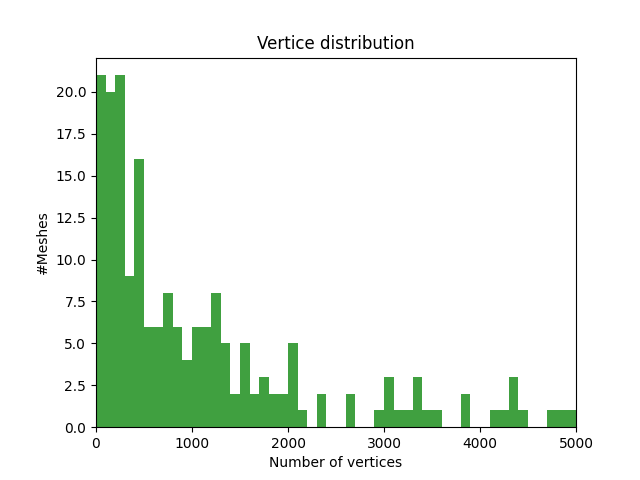
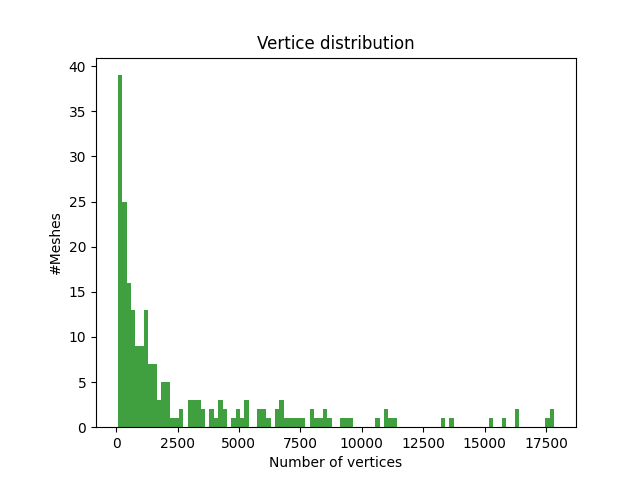
Added option to reject 10% of the outliers

Changed region(s): [[0.0625, 0.125, 0.9375, 0.9375]]

diff --git a/analyze.py b/analyze.py
@@ -51,6 +51,8 @@ def barycentre_distance(mesh):
 def bounding_box_volume(mesh):
   x = mesh.bounds
   volume = (x[1][0] - x[0][0]) * (x[1][1] - x[0][1]) * (x[1][2] - x[0][2])
+  if volume > 100:
+    print(x)
   return volume
 
 def filter_database(dbPath, excelPath):
@@ -72,7 +74,7 @@ def fill_mesh_info(mesh, classFolder, path):
   face_sizes = list(map(lambda x: len(x), mesh.faces))
   mesh_info = {"class": int(classFolder), "nrfaces": len(mesh.faces), "nrvertices": len(mesh.vertices),
                "containsTriangles": 3 in face_sizes, "containsQuads": 4 in face_sizes,
-               "bounding_box_corners": bounding_box(mesh.vertices), "path": f'{path}',  "center_mass": mesh.center_mass,
+               "bounding_box_corners": bounding_box(mesh.vertices), "path": f'{path}', "barycentre_distance": barycentre_distance(mesh),
                 'volume': bounding_box_volume(mesh)}
   mesh_info = detect_outliers(mesh, mesh_info)
   return mesh_info
@@ -101,12 +103,20 @@ def meta_data(dataframe):
   metadata["minvertices"] = np.min(dataframe.loc[:, "nrvertices"].values)
   metadata["maxvertices"] = np.max(dataframe.loc[:, "nrvertices"].values)
 
+  metadata["avgbarycentre_distance"] = np.mean(dataframe.loc[:, "barycentre_distance"].values)
+  metadata["volume"] = np.mean(dataframe.loc[:, "volume"].values)
+
   return metadata
 
 def save_histogram(data, info, path):
   # the histogram of the data
-
-  plt.hist(data,  bins=np.arange(0, info["xlim"] + info["blocksize"], info["blocksize"]), facecolor='g', alpha=0.75)
+  if info['skip_outliers']:
+    #Remove all data below the 5th percentile and 95th percentile
+    p5 = np.percentile(data, 5)
+    p95 = np.percentile(data, 95)
+    data = data[data >= p5]
+    data = data[data <= p95]
+  plt.hist(data,  bins = info["blocksize"], facecolor='g', alpha=0.75)
   plt.xlabel(info["xlabel"])
   plt.ylabel(info["ylabel"])
   plt.title(info["title"])
@@ -122,10 +132,11 @@ def save_histogram(data, info, path):
 def save_all_histograms(df, path):
   meta_data(df)
   plotInfos = [
-    {"column": "class", "title": "Class distribution", "blocksize": 19, "xlim":19, "ylabel": "#Meshes", "xlabel": "Class nr"},
-    {"column": "nrfaces", "title": "Face distribution", "blocksize": 100, "xlim":5000,  "ylabel": "#Meshes", "xlabel": "Number of faces"},
-    {"column": "nrvertices", "title": "Vertice distribution", "blocksize": 100,"xlim":5000,  "ylabel": "#Meshes", "xlabel": "Number of vertices"},
-    {"column": "volume", "title": "Bounding box volume", "blocksize": 100,"xlim":0,  "ylabel": "#Meshes", "xlabel": "Bounding box volume"},
+    {"column": "class", "title": "Class distribution", "blocksize": 19, "xlim":18, "ylabel": "#Meshes", "xlabel": "Class nr", "skip_outliers": False},
+    {"column": "nrfaces", "title": "Face distribution", "blocksize": 100, "xlim":0,  "ylabel": "#Meshes", "xlabel": "Number of faces", "skip_outliers": True},
+    {"column": "nrvertices", "title": "Vertice distribution", "blocksize": 100,"xlim":0,  "ylabel": "#Meshes", "xlabel": "Number of vertices", "skip_outliers": True},
+    {"column": "volume", "title": "Bounding box volume", "blocksize": 100,"xlim":0,  "ylabel": "#Meshes", "xlabel": "Bounding box volume", "skip_outliers": True},
+    {"column": "barycentre_distance", "title": "Barycentre origin distance", "blocksize": 100,"xlim":0,  "ylabel": "#Meshes", "xlabel": "Distance barycentre to origin", "skip_outliers": True},
   ]
   for info in plotInfos:
     save_histogram(df.loc[:,info['column']].values, info, path)

diff --git a/main.py b/main.py
@@ -29,8 +29,13 @@ def step_1():
   mesh = trimesh.load('testModels/db/0/m0/m0.off', force='mesh')
   render([mesh])
 
-#analyze.filter_database(utils.originalDB, utils.excelPath)
-# preprocess.process_all()
-#analyze.filter_database(utils.refinedDB, utils.refinedexcelPath)
-analyze.save_all_histograms(utils.read_excel(original=True), utils.imagePath)
-analyze.save_all_histograms(utils.read_excel(original=False), utils.refinedImagePath)
+analyze.filter_database(utils.originalDB, utils.excelPath)
+preprocess.process_all()
+analyze.filter_database(utils.refinedDB, utils.refinedexcelPath)
+originalDF = utils.read_excel(original=True)
+refinedDF = utils.read_excel(original=False)
+print(analyze.meta_data(originalDF))
+print(analyze.meta_data(refinedDF))
+analyze.save_all_histograms(originalDF, utils.imagePath)
+analyze.save_all_histograms(refinedDF, utils.refinedImagePath)
+
